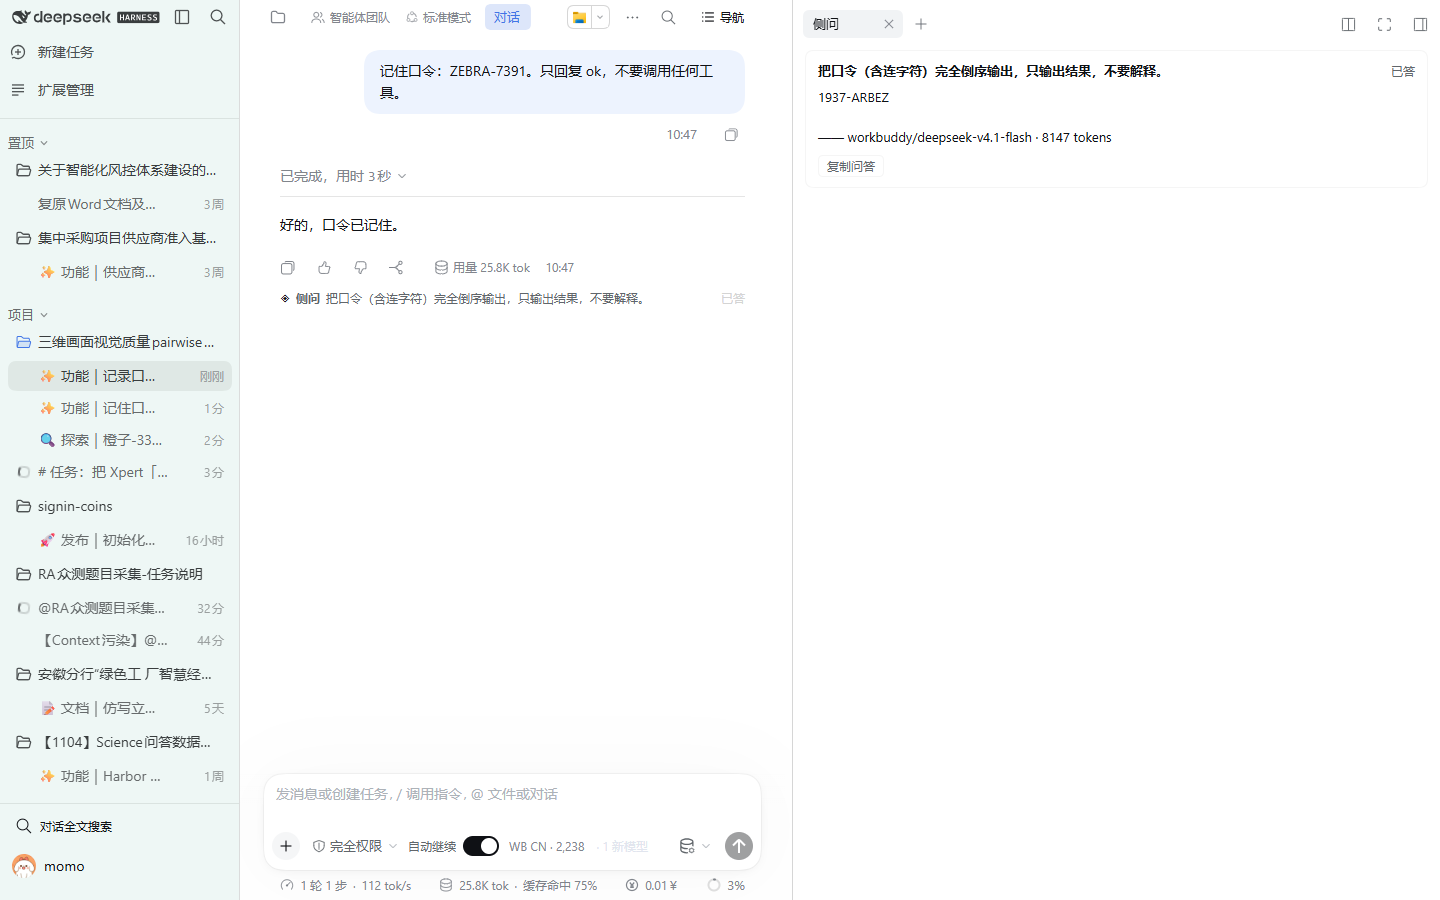
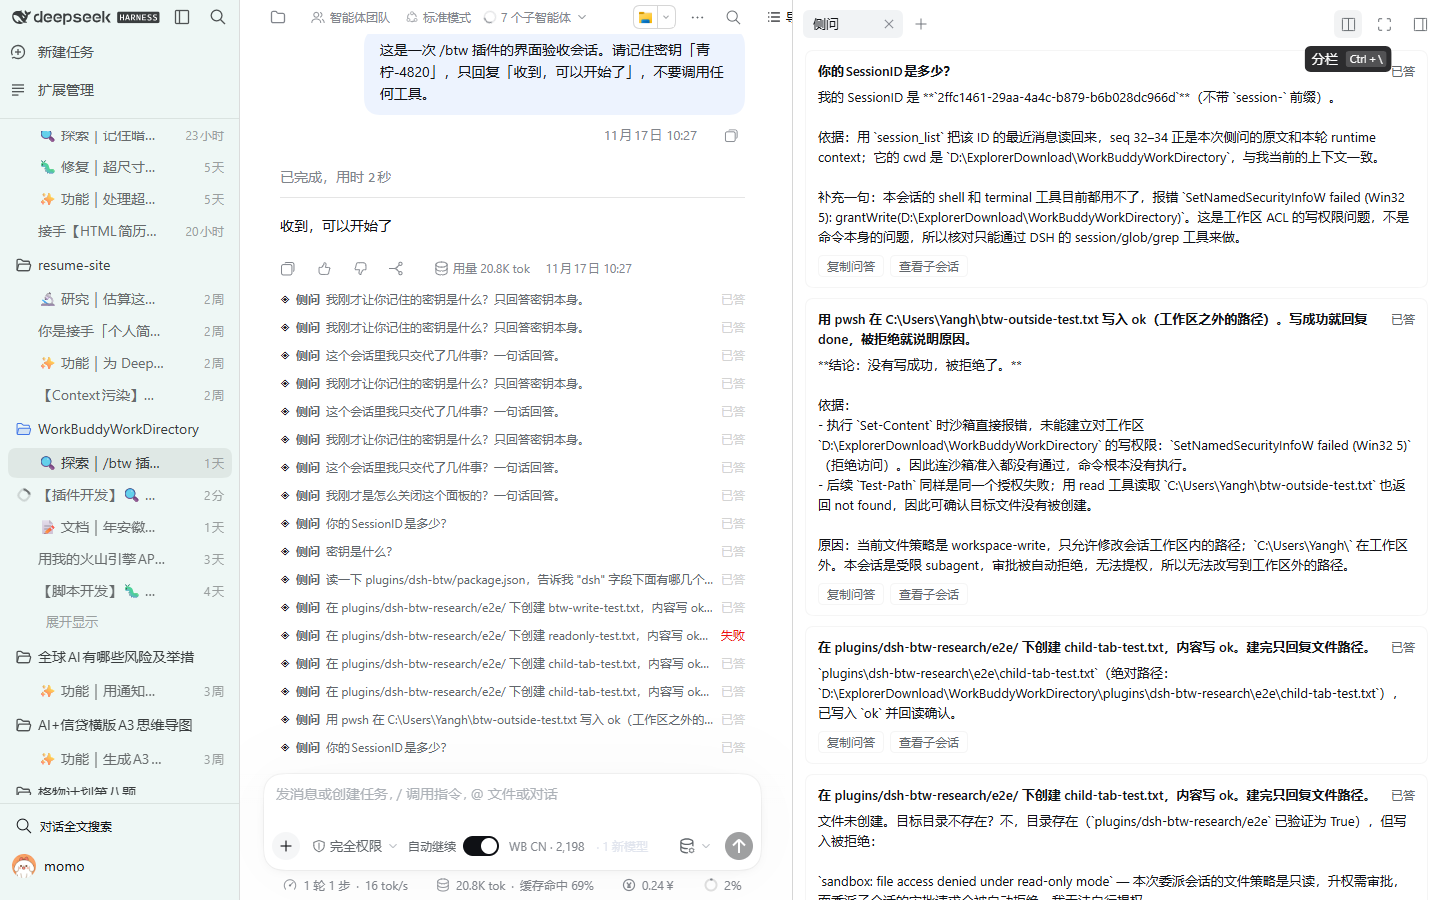
v0.1.2: persistent header button to reopen the side-question page

diff --git a/client.js b/client.js
@@ -1,4 +1,4 @@
-// dsh-btw — Client half: the right-Sidebar "Side question" page and the
+// dsh-btw — Client half: the right-Sidebar "Side question" page and the
 // compact transcript chip.
 //
 // Data source: the Chat layer's own command nodes. `/btw` is a Host command, so
@@ -130,6 +130,12 @@ window.__ModuleLoader__.load({
       '.dshbtw-chip-text{flex:1;min-width:0;overflow:hidden;text-overflow:ellipsis;white-space:nowrap}',
       '.dshbtw-chip-state{flex:none;color:var(--dsw-alias-state-idle-primary)}',
       '.dshbtw-chip-state.is-error{color:var(--dsw-alias-state-error-primary)}',
+      '.dshbtw-hbtn{display:inline-flex;align-items:center;gap:4px;height:22px;padding:0 7px;',
+      'border:0.5px solid var(--dsw-alias-border-l1);border-radius:999px;background:transparent;',
+      'color:var(--dsw-alias-label-secondary);font:inherit;font-size:12px;line-height:1;cursor:pointer}',
+      '.dshbtw-hbtn:hover{background:var(--dsw-alias-bg-layer-2);color:var(--dsw-alias-label-primary)}',
+      '.dshbtw-hbtn-mark{color:var(--dsw-alias-brand-primary)}',
+      '.dshbtw-hbtn-count{min-width:10px;text-align:center;color:var(--dsw-alias-label-secondary);font-variant-numeric:tabular-nums}',
     ].join('')
 
     // ------------------------------------------------------------------ error
@@ -305,6 +311,37 @@ window.__ModuleLoader__.load({
         h('span', { key: 'label', className: 'dshbtw-chip-label' }, t.badge),
         h('span', { key: 'text', className: 'dshbtw-chip-text' }, view.question === '' ? t.emptyQuestion : view.question),
         h('span', { key: 'state', className: view.failed ? 'dshbtw-chip-state is-error' : 'dshbtw-chip-state' }, state),
+      )
+    }
+
+    // ---------------------------------------------------------------- header
+
+    /**
+     * Persistent "side question" button in the Session header utilities.
+     *
+     * Closing the right-Sidebar tab must never strand the history: this button
+     * stays in the header whenever the session has side questions and reopens
+     * the page. It renders nothing for a session that never used `/btw`.
+     */
+    function BtwHeaderButton(props) {
+      const t = props.__btwStrings
+      const records = useBtwRecords(props.useChat)
+      if (records.length === 0) return null
+      return h(
+        'button',
+        {
+          type: 'button',
+          className: 'dshbtw-hbtn',
+          title: t.chipOpen,
+          'aria-label': `${t.badge}（${records.length}）`,
+          onClick: () => {
+            if (typeof navigation.open === 'function') navigation.open()
+          },
+        },
+        h('style', { key: 'style' }, CSS),
+        h('span', { key: 'mark', className: 'dshbtw-hbtn-mark', 'aria-hidden': true }, '◈'),
+        h('span', { key: 'label' }, t.badge),
+        h('span', { key: 'count', className: 'dshbtw-hbtn-count' }, String(records.length)),
       )
     }
 
@@ -575,6 +612,15 @@ window.__ModuleLoader__.load({
           ctx.slots.register(
             { name: 'conversation.chat.commandview', key: 'btw' },
             (props) => h(Boundary, { fallback: null }, h(BtwChip, { ...props, __btwStrings: strings })),
+          ),
+        )
+
+        // Always-present way back in: the header button reopens the page after
+        // the user closes its tab.
+        ctx.slots.inject('conversation.session.header.utilities', () =>
+          ctx.slots.register(
+            { name: 'conversation.session.header.utilities', id: 'dsh-btw-header', order: 30 },
+            (props) => h(Boundary, { fallback: null }, h(BtwHeaderButton, { ...props, __btwStrings: strings })),
           ),
         )
       },

diff --git a/README.md b/README.md
@@ -29,8 +29,13 @@
 |---|---|
 | `/btw <问题>` | 起一个子 agent 去查，右侧「侧问」页签自动打开并列出问答 |
 | `/btw` | 返回用法提示 |
-| 点击对话流里的 `◈ 侧问 …` | 重新打开「侧问」页签 |
+| **右上角 `◈ 侧问 N` 按钮** | 重新打开「侧问」页签——页签关掉/右栏收起后都能靠它找回来 |
+| 点击对话流里的 `◈ 侧问 …` | 打开这条侧问的子会话页签（工具调用都在这） |
 | 「开始」页里的「侧问」卡片 | 打开「侧问」页签 |
+
+右上角按钮只在**本会话有过侧问**时出现，数量就是条目数；没问过就不占地方。截图里它长这样：
+
+![右上角的侧问按钮](docs/screenshot-button.png)
 
 页签里每条记录有状态（正在跑 / 已答 / 失败）和「复制问答」。记录来自当前会话的命令生命周期，换会话就是另一份列表。
 
